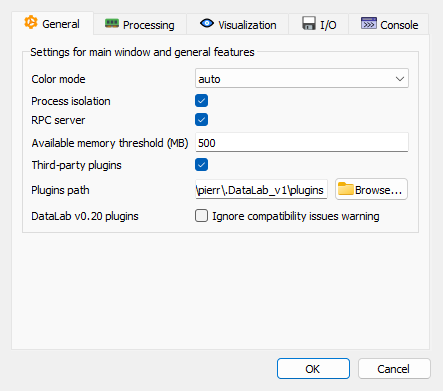
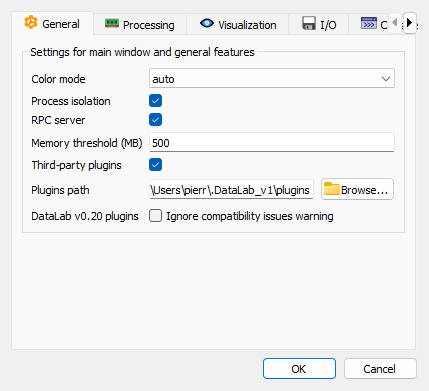
Fix: update terminology for memory threshold in settings and translations

diff --git a/datalab/tests/scenarios/beautiful_app.py b/datalab/tests/scenarios/beautiful_app.py
@@ -43,9 +43,6 @@ def run_beautiful_scenario(screenshots: bool = False) -> None:
         panel.processor.run_feature("gaussian_filter", sigima.params.GaussianParam())
         panel.processor.run_feature("fft")
         panel.processor.run_feature("derivative")
-        if screenshots:
-            win.statusBar().hide()
-            win.take_screenshot("s_beautiful")
         # Beautiful screenshot of an image
         panel = win.imagepanel
         param = sigima.objects.Gauss2DParam.create(height=data_size, width=data_size)
@@ -68,8 +65,11 @@ def run_beautiful_scenario(screenshots: bool = False) -> None:
         )
         panel.processor.compute_roi_extraction(roi)
         if screenshots:
+            win.statusBar().hide()
             win.take_screenshot("i_beautiful")
             win.take_menu_screenshots()
+            win.set_current_panel(win.signalpanel)
+            win.take_screenshot("s_beautiful")
 
 
 def run_blob_detection_on_flower_image(screenshots: bool = False) -> None:

diff --git a/datalab/gui/settings.py b/datalab/gui/settings.py
@@ -48,11 +48,12 @@ class MainSettings(gds.DataSet):
         ),
     )
     available_memory_threshold = gds.IntItem(
-        _("Available memory threshold"),
+        _("Memory threshold"),
         default=0,
         unit=_("MB"),
         help=_(
-            "Threshold below which a warning is displayed before loading any new data"
+            "Memory threshold below which a warning is displayed "
+            "before loading any new data"
         ),
     )
     plugins_enabled = gds.BoolItem(

diff --git a/doc/features/common/settings.rst b/doc/features/common/settings.rst
@@ -33,7 +33,7 @@ The General settings tab contains main window and general feature settings:
     such as your own scripts running in Spyder, Jupyter, or other software. This allows
     programmatic control of DataLab.
 
-**Available memory threshold**
+**Memory threshold**
     Set a threshold (in MB) below which a warning is displayed before loading new data.
     This helps prevent out-of-memory errors when working with large datasets. Set to 0
     to disable the warning.
